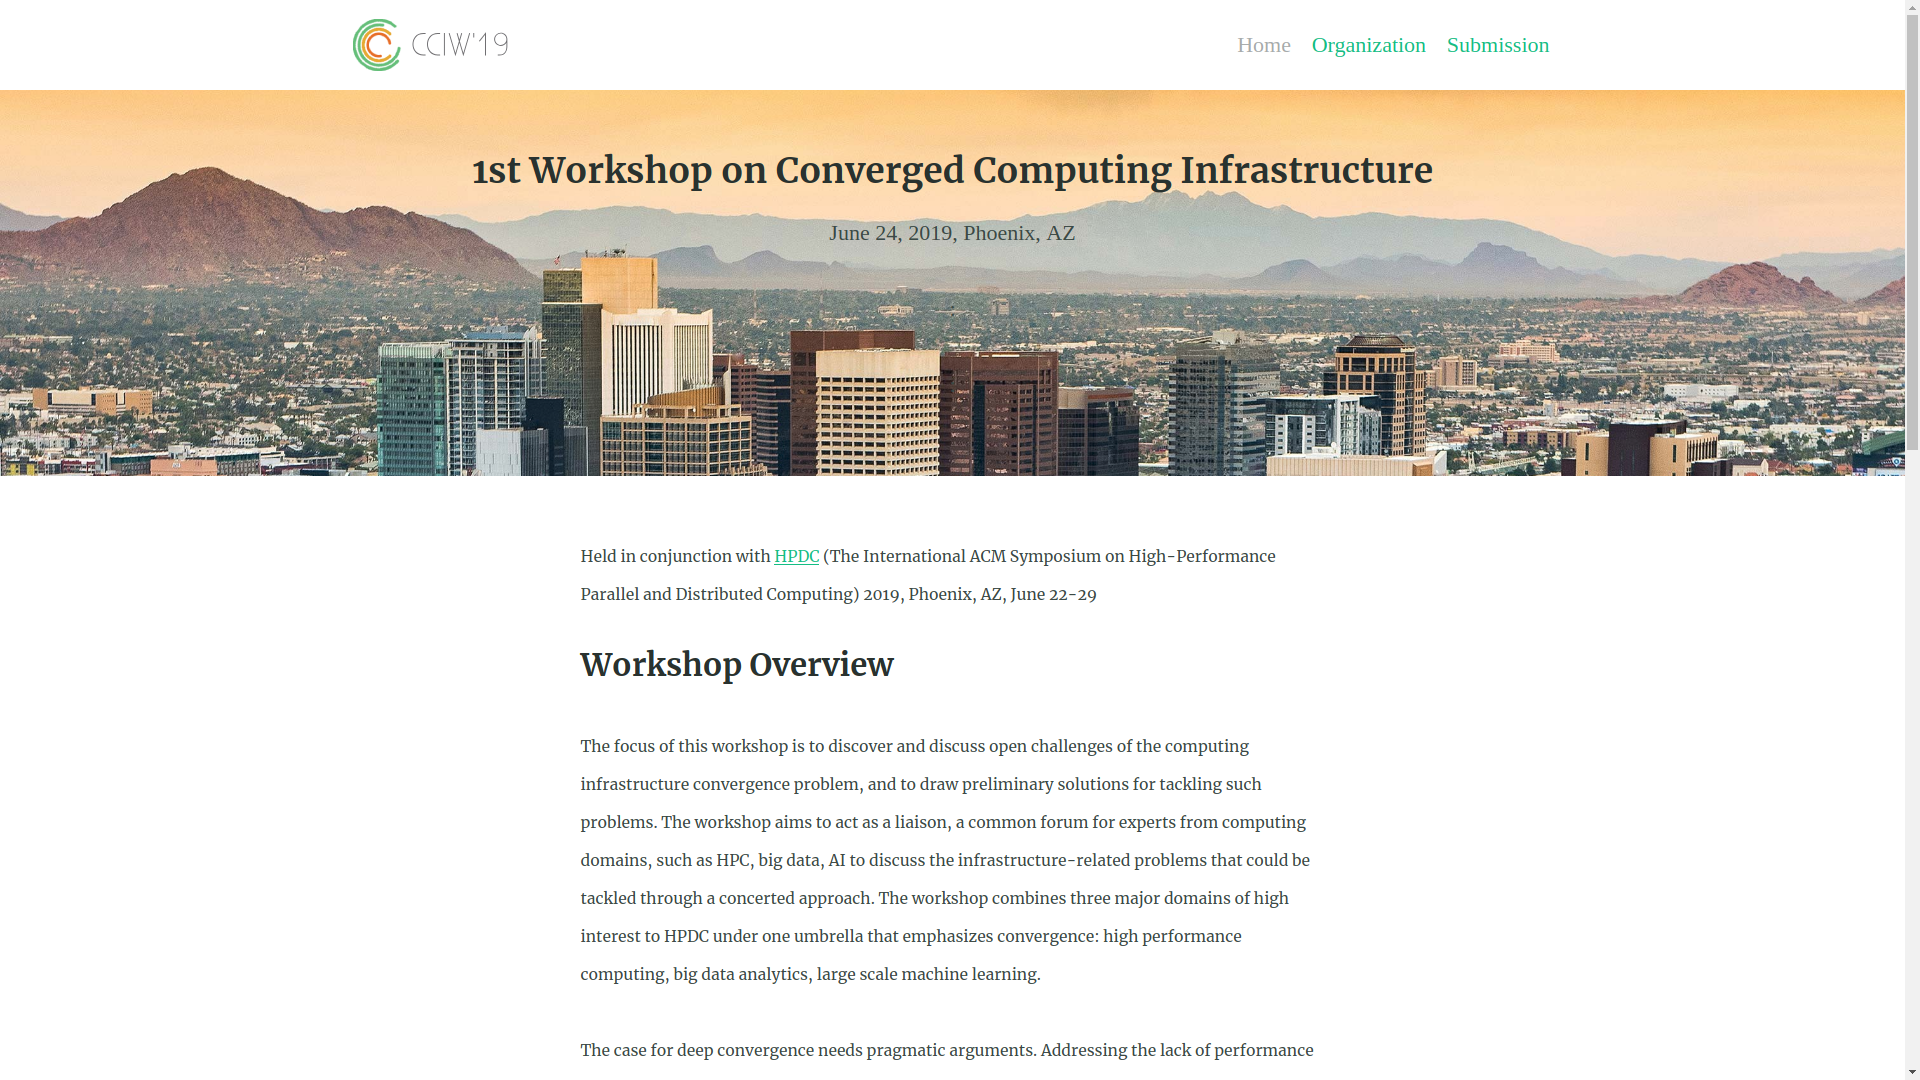
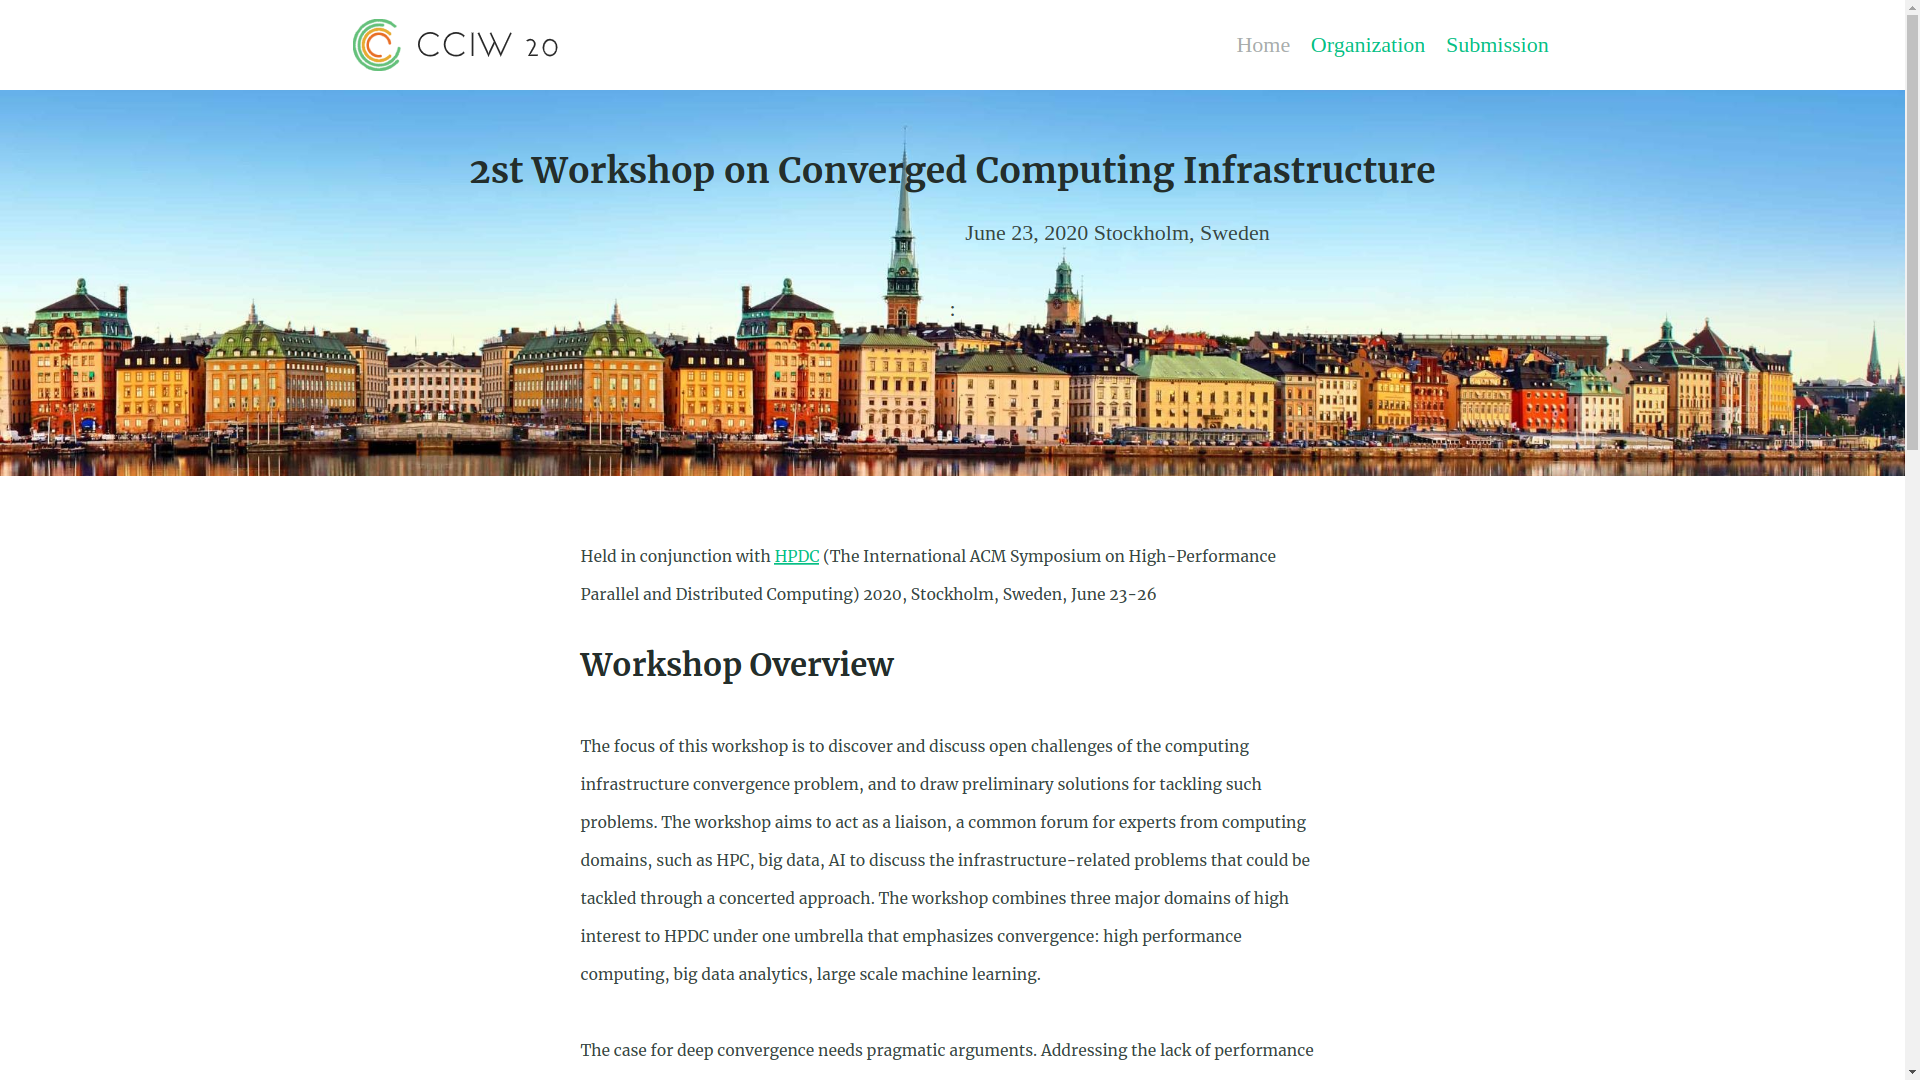
README update for the 2020 edition

diff --git a/README.md b/README.md
@@ -1,8 +1,8 @@
-### 1st Workshop on Converged Computing Infrastructure
+### 2nd Workshop on Converged Computing Infrastructure
 
-Current version: 2019
+Current version: 2020
 
-Link: [CCIW'19](https://cciw.github.io)
+Link: [CCIW'20](https://cciw.github.io)
 <br/><br/>
 Jekyll theme webside based on [Alembic](https://github.com/daviddarnes/alembic) 
 
